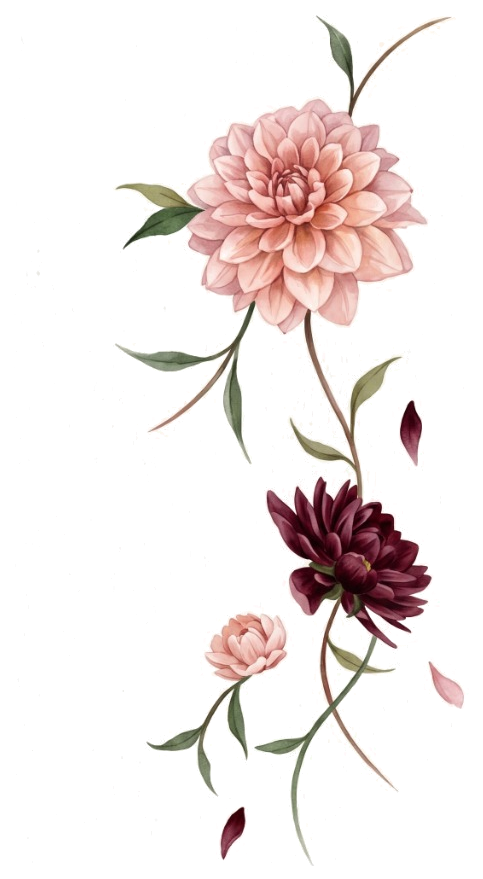
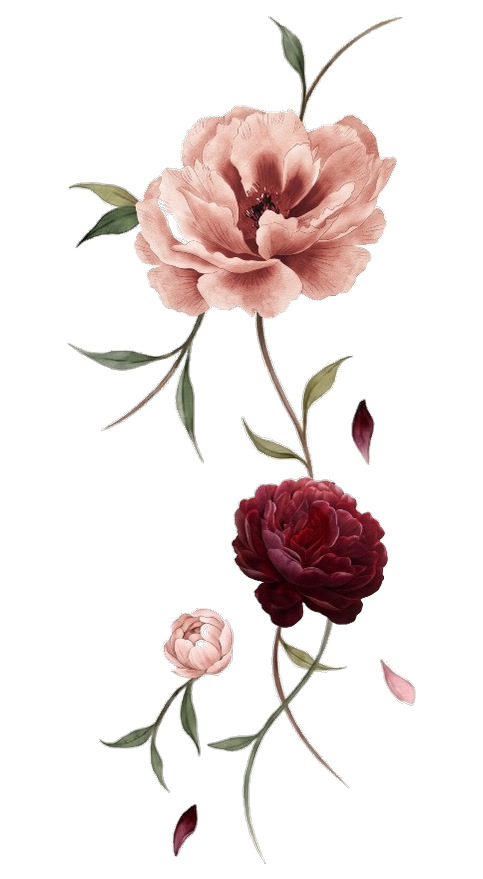
Sostituita composizione floreale verticale con nuove peonie e cache-busting ?v=2

diff --git a/src/components/CeremonyCard.tsx b/src/components/CeremonyCard.tsx
@@ -90,8 +90,8 @@ export const CeremonyCard: React.FC = () => {
               {/* Parte Destra (35%): Composizione floreale verticale a trasparenza pura 100% */}
               <div className="w-[100px] sm:w-36 md:w-44 shrink-0 flex justify-end items-center pointer-events-none select-none z-10 pl-1">
                 <img
-                  src="./images/composizione_floreale_verticale.png"
-                  alt="Composizione botanica ad acquerello con dalie e boccioli"
+                  src="./images/composizione_floreale_verticale.png?v=2"
+                  alt="Composizione botanica ad acquerello con peonie e boccioli"
                   className="w-full h-auto max-h-[220px] sm:max-h-[290px] object-contain"
                   loading="lazy"
                 />
